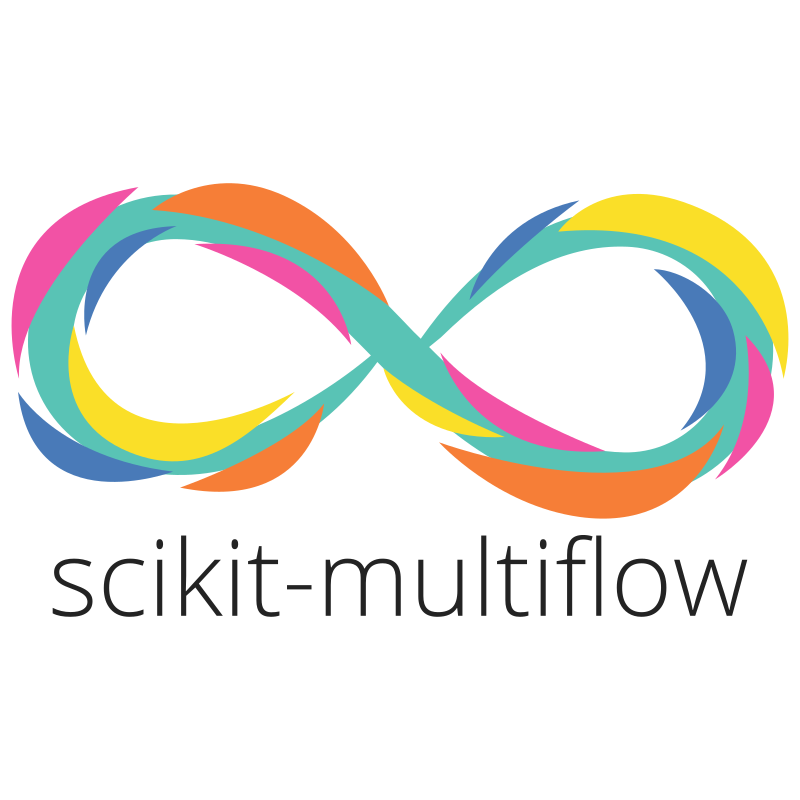
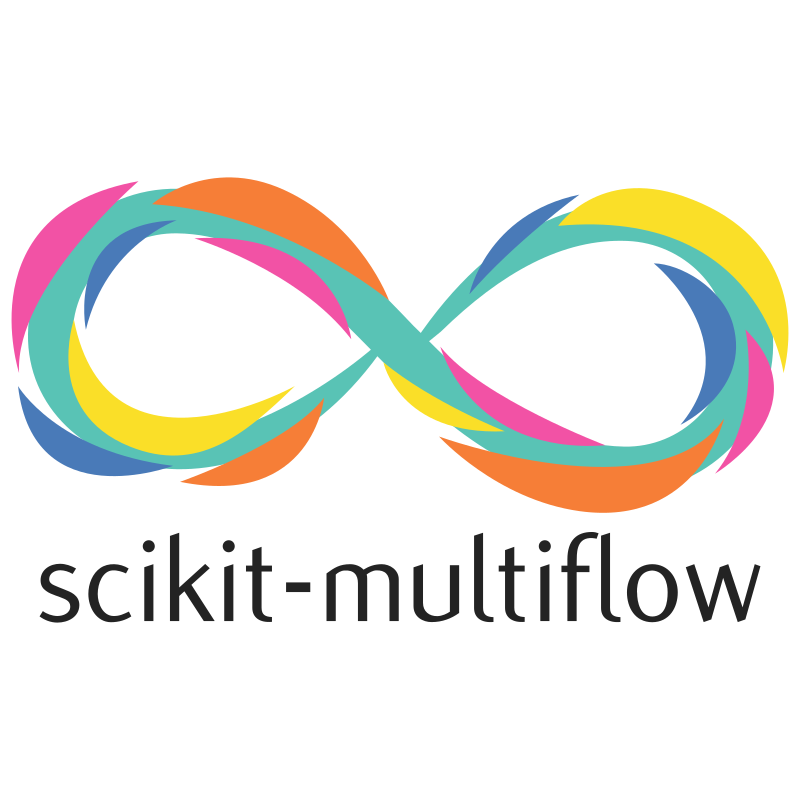
deploy: jacobmontiel/academic-kickstart@e5b0c22bbc5b911b58a0ab436a843393775e38b5

diff --git a/index.html b/index.html
@@ -1,6 +1,6 @@
 <!doctype html><html lang=en-us><head><meta charset=utf-8><meta name=viewport content="width=device-width,initial-scale=1"><meta http-equiv=x-ua-compatible content="IE=edge"><meta name=generator content="Source Themes Academic 4.5.0"><meta name=author content="Jacob Montiel"><meta name=description content="Research Fellow"><link rel=alternate hreflang=en-us href=https://jacobmontiel.github.io/><meta name=theme-color content="#3f51b5"><link rel=stylesheet href=https://cdnjs.cloudflare.com/ajax/libs/academicons/1.8.6/css/academicons.min.css integrity="sha256-uFVgMKfistnJAfoCUQigIl+JfUaP47GrRKjf6CTPVmw=" crossorigin=anonymous><link rel=stylesheet href=https://cdnjs.cloudflare.com/ajax/libs/font-awesome/5.11.2/css/all.min.css integrity="sha256-+N4/V/SbAFiW1MPBCXnfnP9QSN3+Keu+NlB+0ev/YKQ=" crossorigin=anonymous><link rel=stylesheet href=https://cdnjs.cloudflare.com/ajax/libs/fancybox/3.5.7/jquery.fancybox.min.css integrity="sha256-Vzbj7sDDS/woiFS3uNKo8eIuni59rjyNGtXfstRzStA=" crossorigin=anonymous><link rel=stylesheet href=https://cdnjs.cloudflare.com/ajax/libs/highlight.js/9.15.10/styles/github.min.css crossorigin=anonymous title=hl-light><link rel=stylesheet href=https://cdnjs.cloudflare.com/ajax/libs/highlight.js/9.15.10/styles/github.min.css crossorigin=anonymous title=hl-dark disabled><link rel=stylesheet href=https://cdnjs.cloudflare.com/ajax/libs/leaflet/1.5.1/leaflet.css integrity="sha256-SHMGCYmST46SoyGgo4YR/9AlK1vf3ff84Aq9yK4hdqM=" crossorigin=anonymous><link rel=stylesheet href="https://fonts.googleapis.com/css?family=Montserrat:400,700%7CRoboto:400,400italic,700%7CRoboto+Mono%7CRaleway%7CLato%7CTitillium+Web&display=swap"><link rel=stylesheet href=/css/academic.css><link rel=alternate href=/index.xml type=application/rss+xml title="Jacob ML"><link rel=manifest href=/index.webmanifest><link rel=icon type=image/png href=/img/icon-32.png><link rel=apple-touch-icon type=image/png href=/img/icon-192.png><link rel=canonical href=https://jacobmontiel.github.io/><meta property="twitter:card" content="summary_large_image"><meta property="twitter:site" content="@jacobmex"><meta property="twitter:creator" content="@jacobmex"><meta property="og:site_name" content="Jacob ML"><meta property="og:url" content="https://jacobmontiel.github.io/"><meta property="og:title" content="Jacob ML"><meta property="og:description" content="Research Fellow"><meta property="og:image" content="https://jacobmontiel.github.io/img/avatar.jpg"><meta property="twitter:image" content="https://jacobmontiel.github.io/img/avatar.jpg"><meta property="og:locale" content="en-us"><meta property="og:updated_time" content="2020-03-06T23:00:00+00:00"><script type=application/ld+json>{"@context":"https://schema.org","@type":"WebSite","potentialAction":{"@type":"SearchAction","target":"https://jacobmontiel.github.io/?q={search_term_string}","query-input":"required name=search_term_string"},"url":"https://jacobmontiel.github.io/"}</script><title>Jacob ML</title></head><body id=top data-spy=scroll data-offset=70 data-target=#navbar-main><aside class=search-results id=search><div class=container><section class=search-header><div class="row no-gutters justify-content-between mb-3"><div class=col-6><h1>Search</h1></div><div class="col-6 col-search-close"><a class=js-search href=#><i class="fas fa-times-circle text-muted" aria-hidden=true></i></a></div></div><div id=search-box><input name=q id=search-query placeholder=Search... autocapitalize=off autocomplete=off autocorrect=off spellcheck=false type=search></div></section><section class=section-search-results><div id=search-hits></div></section></div></aside><nav class="navbar navbar-light fixed-top navbar-expand-lg py-0 compensate-for-scrollbar" id=navbar-main><div class=container><a class=navbar-brand href=/>Jacob ML</a>
 <button type=button class=navbar-toggler data-toggle=collapse data-target=#navbar aria-controls=navbar aria-expanded=false aria-label="Toggle navigation">
-<span><i class="fas fa-bars"></i></span></button><div class="collapse navbar-collapse" id=navbar><ul class="navbar-nav mr-auto"><li class=nav-item><a class=nav-link href=/#about data-target=#about><span>Home</span></a></li><li class=nav-item><a class=nav-link href=/#projects data-target=#projects><span>Projects</span></a></li><li class=nav-item><a class=nav-link href=/#posts data-target=#posts><span>News</span></a></li><li class=nav-item><a class=nav-link href=/#publications data-target=#publications><span>Publications</span></a></li><li class="nav-item dropdown"><a href=# class="nav-link dropdown-toggle" data-toggle=dropdown aria-haspopup=true><span>Activities</span><span class=caret></span></a><ul class=dropdown-menu><li class="dropdown-item my-0 py-0 mx-0 px-0"><a href=/activities/#activities data-target=activities/#activities><span>Professional Activities</span></a></li><li class="dropdown-item my-0 py-0 mx-0 px-0"><a href=/activities/#teaching data-target=activities/#teaching><span>Teaching</span></a></li></ul></li><li class=nav-item><a class=nav-link href=/about/><span>About</span></a></li><li class=nav-item><a class=nav-link href=/#contact data-target=#contact><span>Contact</span></a></li></ul><ul class="navbar-nav ml-auto"><li class=nav-item><a class="nav-link js-search" href=#><i class="fas fa-search" aria-hidden=true></i></a></li></ul></div></div></nav><span class="js-widget-page d-none"></span><section id=about class="home-section wg-about bg-image parallax" style=background-image:url(https://jacobmontiel.github.io/img/background.png);background-size:cover;background-position:50%><div class=container><div class=row><div class="col-12 col-lg-4"><div id=profile><img class=portrait src=/authors/admin/avatar_hu855bbe0a9c47ac557e5b09db74fa3b06_164171_250x250_fill_q90_lanczos_center.jpg alt=Avatar><div class=portrait-title><h2>Jacob Montiel</h2><h3>Research Fellow</h3><h3><a href=https://www.waikato.ac.nz/ target=_blank rel=noopener><span>University of Waikato</span></a></h3></div><ul class=network-icon aria-hidden=true><li><a href=mailto:firstname.lastname[at]waikato.ac.nz><i class="fas fa-envelope big-icon"></i></a></li><li><a href=https://www.linkedin.com/in/jacobmontiel/ target=_blank rel=noopener><i class="fab fa-linkedin big-icon"></i></a></li><li><a href=https://github.com/jacobmontiel target=_blank rel=noopener><i class="fab fa-github big-icon"></i></a></li><li><a href="https://scholar.google.co.uk/citations?user=WOvISekAAAAJ" target=_blank rel=noopener><i class="ai ai-google-scholar big-icon"></i></a></li><li><a href=https://twitter.com/jacobmex target=_blank rel=noopener><i class="fab fa-twitter big-icon"></i></a></li></ul></div></div><div class="col-12 col-lg-8"><p>I am a Research Fellow in the <a href=https://www.cs.waikato.ac.nz/~ml/>Machine Learning Group</a> at the <a href=https://www.waikato.ac.nz/>University of Waikato</a>. I am the lead developer and maintainer of <a href=https://scikit-multiflow.github.io/>scikit-multiflow</a>, a machine learning framework for multi-label/multi-output stream data.</p><p>I worked at GE Aviation as Tech Lead in the development of embedded software for Diagnostics and Prognostics of Airborne Systems.</p><p>For further information, please check the <a href=/about>about</a> section.</p><div class=row><div class=col-md-5><h3>Interests</h3><ul class=ul-interests><li>Artificial Intelligence</li><li>Machine Learning</li><li>Data Streams</li><li>Open Source Software</li></ul></div><div class=col-md-7><h3>Education</h3><ul class="ul-edu fa-ul"><li><i class="fa-li fas fa-graduation-cap"></i><div class=description><p class=course>PhD in Computer Science, 2019</p><p class=institution>Université Paris-Saclay (FR)</p></div></li><li><i class="fa-li fas fa-graduation-cap"></i><div class=description><p class=course>MEng in Computer Science, 2010</p><p class=institution>Tokyo Institute of Technology (JP)</p></div></li><li><i class="fa-li fas fa-graduation-cap"></i><div class=description><p class=course>BSc in Electrical Engineering, 2005</p><p class=institution>Puebla Institute of Technology (MX)</p></div></li></ul></div></div></div></div></div></section><section id=projects class="home-section wg-portfolio"><div class=container><div class=row><div class="col-xs-12 col-md-4 section-heading"><h1>Projects</h1></div><div class="col-xs-12 col-md-8"><div class="isotope projects-container js-layout-masonry"><div class="project-card project-item isotope-item js-id-machine-learning js-id-data-streams js-id-python"><div class=card><a href=https://scikit-multiflow.github.io/ target=_blank rel=noopener class="card-image hover-overlay"><img src=/project/scikit-multiflow/featured_hu8739dcaeb8c0f1473728ad40e22f5d59_64387_550x0_resize_q90_lanczos_2.png alt class=img-responsive></a><div class=card-text><h4><a href=https://scikit-multiflow.github.io/ target=_blank rel=noopener>scikit-multiflow</a></h4><div class=article-style><p>A machine learning framework for multi-output/multi-label and stream data.</p></div></div></div></div></div></div></div></div></section><section id=posts class="home-section wg-pages"><div class=container><div class=row><div class="col-12 col-lg-4 section-heading"><h1>Recent News</h1></div><div class="col-12 col-lg-8"><div class="media stream-item"><div class=media-body><h3 class="article-title mb-0 mt-0"><a href=/post/2020-03-07-tutorial-ijcai/>Tutorial accepted at IJCAI 2020</a></h3><div class=article-style>Our tutorial &ldquo;Machine learning for data streams with scikit-multiflow&rdquo; has been accepted for presentation in IJCAI-PRICAI …</div><div class="stream-meta article-metadata"><div class=article-metadata><span class=article-date>Mar 6, 2020</span>
+<span><i class="fas fa-bars"></i></span></button><div class="collapse navbar-collapse" id=navbar><ul class="navbar-nav mr-auto"><li class=nav-item><a class=nav-link href=/#about data-target=#about><span>Home</span></a></li><li class=nav-item><a class=nav-link href=/#projects data-target=#projects><span>Projects</span></a></li><li class=nav-item><a class=nav-link href=/#posts data-target=#posts><span>News</span></a></li><li class=nav-item><a class=nav-link href=/#publications data-target=#publications><span>Publications</span></a></li><li class="nav-item dropdown"><a href=# class="nav-link dropdown-toggle" data-toggle=dropdown aria-haspopup=true><span>Activities</span><span class=caret></span></a><ul class=dropdown-menu><li class="dropdown-item my-0 py-0 mx-0 px-0"><a href=/activities/#activities data-target=activities/#activities><span>Professional Activities</span></a></li><li class="dropdown-item my-0 py-0 mx-0 px-0"><a href=/activities/#teaching data-target=activities/#teaching><span>Teaching</span></a></li></ul></li><li class=nav-item><a class=nav-link href=/about/><span>About</span></a></li><li class=nav-item><a class=nav-link href=/#contact data-target=#contact><span>Contact</span></a></li></ul><ul class="navbar-nav ml-auto"><li class=nav-item><a class="nav-link js-search" href=#><i class="fas fa-search" aria-hidden=true></i></a></li></ul></div></div></nav><span class="js-widget-page d-none"></span><section id=about class="home-section wg-about bg-image parallax" style=background-image:url(https://jacobmontiel.github.io/img/background.png);background-size:cover;background-position:50%><div class=container><div class=row><div class="col-12 col-lg-4"><div id=profile><img class=portrait src=/authors/admin/avatar_hu855bbe0a9c47ac557e5b09db74fa3b06_164171_250x250_fill_q90_lanczos_center.jpg alt=Avatar><div class=portrait-title><h2>Jacob Montiel</h2><h3>Research Fellow</h3><h3><a href=https://www.waikato.ac.nz/ target=_blank rel=noopener><span>University of Waikato</span></a></h3></div><ul class=network-icon aria-hidden=true><li><a href=mailto:firstname.lastname[at]waikato.ac.nz><i class="fas fa-envelope big-icon"></i></a></li><li><a href=https://www.linkedin.com/in/jacobmontiel/ target=_blank rel=noopener><i class="fab fa-linkedin big-icon"></i></a></li><li><a href=https://github.com/jacobmontiel target=_blank rel=noopener><i class="fab fa-github big-icon"></i></a></li><li><a href="https://scholar.google.co.uk/citations?user=WOvISekAAAAJ" target=_blank rel=noopener><i class="ai ai-google-scholar big-icon"></i></a></li><li><a href=https://twitter.com/jacobmex target=_blank rel=noopener><i class="fab fa-twitter big-icon"></i></a></li></ul></div></div><div class="col-12 col-lg-8"><p>I am a Research Fellow in the <a href=https://www.cs.waikato.ac.nz/~ml/>Machine Learning Group</a> at the <a href=https://www.waikato.ac.nz/>University of Waikato</a>. I am the lead developer and maintainer of <a href=https://scikit-multiflow.github.io/>scikit-multiflow</a>, a machine learning framework for multi-label/multi-output stream data.</p><p>I worked at GE Aviation as Tech Lead in the development of embedded software for Diagnostics and Prognostics of Airborne Systems.</p><p>For further information, please check the <a href=/about>about</a> section.</p><div class=row><div class=col-md-5><h3>Interests</h3><ul class=ul-interests><li>Artificial Intelligence</li><li>Machine Learning</li><li>Data Streams</li><li>Open Source Software</li></ul></div><div class=col-md-7><h3>Education</h3><ul class="ul-edu fa-ul"><li><i class="fa-li fas fa-graduation-cap"></i><div class=description><p class=course>PhD in Computer Science, 2019</p><p class=institution>Université Paris-Saclay (FR)</p></div></li><li><i class="fa-li fas fa-graduation-cap"></i><div class=description><p class=course>MEng in Computer Science, 2010</p><p class=institution>Tokyo Institute of Technology (JP)</p></div></li><li><i class="fa-li fas fa-graduation-cap"></i><div class=description><p class=course>BSc in Electrical Engineering, 2005</p><p class=institution>Puebla Institute of Technology (MX)</p></div></li></ul></div></div></div></div></div></section><section id=projects class="home-section wg-portfolio"><div class=container><div class=row><div class="col-xs-12 col-md-4 section-heading"><h1>Projects</h1></div><div class="col-xs-12 col-md-8"><div class="isotope projects-container js-layout-masonry"><div class="project-card project-item isotope-item js-id-machine-learning js-id-data-streams js-id-python"><div class=card><a href=https://scikit-multiflow.github.io/ target=_blank rel=noopener class="card-image hover-overlay"><img src=/project/scikit-multiflow/featured_hub137b082d77ffa20b74f42e8101551d7_64366_550x0_resize_q90_lanczos_2.png alt class=img-responsive></a><div class=card-text><h4><a href=https://scikit-multiflow.github.io/ target=_blank rel=noopener>scikit-multiflow</a></h4><div class=article-style><p>A machine learning framework for multi-output/multi-label and stream data.</p></div></div></div></div></div></div></div></div></section><section id=posts class="home-section wg-pages"><div class=container><div class=row><div class="col-12 col-lg-4 section-heading"><h1>Recent News</h1></div><div class="col-12 col-lg-8"><div class="media stream-item"><div class=media-body><h3 class="article-title mb-0 mt-0"><a href=/post/2020-03-07-tutorial-ijcai/>Tutorial accepted at IJCAI 2020</a></h3><div class=article-style>Our tutorial &ldquo;Machine learning for data streams with scikit-multiflow&rdquo; has been accepted for presentation in IJCAI-PRICAI …</div><div class="stream-meta article-metadata"><div class=article-metadata><span class=article-date>Mar 6, 2020</span>
 <span class=middot-divider></span><span class=article-reading-time>1 min read</span></div></div></div><div class=ml-3></div></div><div class="media stream-item"><div class=media-body><h3 class="article-title mb-0 mt-0"><a href=/post/2019-10-25-interview/>Interview on adaptive learning</a></h3><div class=article-style>My interview on the benefits of adaptive learning methods has been published in a white-book by Quantmetry.
 The white-book, No. 5 …</div><div class="stream-meta article-metadata"><div class=article-metadata><span class=article-date>Oct 25, 2019</span>
 <span class=middot-divider></span><span class=article-reading-time>3 min read</span>

diff --git a/project/scikit-multiflow/index.html b/project/scikit-multiflow/index.html
@@ -2,7 +2,7 @@
 <button type=button class=navbar-toggler data-toggle=collapse data-target=#navbar aria-controls=navbar aria-expanded=false aria-label="Toggle navigation">
 <span><i class="fas fa-bars"></i></span></button><div class="collapse navbar-collapse" id=navbar><ul class="navbar-nav mr-auto"><li class=nav-item><a class=nav-link href=/#about><span>Home</span></a></li><li class=nav-item><a class=nav-link href=/#projects><span>Projects</span></a></li><li class=nav-item><a class=nav-link href=/#posts><span>News</span></a></li><li class=nav-item><a class=nav-link href=/#publications><span>Publications</span></a></li><li class="nav-item dropdown"><a href=# class="nav-link dropdown-toggle" data-toggle=dropdown aria-haspopup=true><span>Activities</span><span class=caret></span></a><ul class=dropdown-menu><li class="dropdown-item my-0 py-0 mx-0 px-0"><a href=/activities/#activities><span>Professional Activities</span></a></li><li class="dropdown-item my-0 py-0 mx-0 px-0"><a href=/activities/#teaching><span>Teaching</span></a></li></ul></li><li class=nav-item><a class=nav-link href=/about/><span>About</span></a></li><li class=nav-item><a class=nav-link href=/#contact><span>Contact</span></a></li></ul><ul class="navbar-nav ml-auto"><li class=nav-item><a class="nav-link js-search" href=#><i class="fas fa-search" aria-hidden=true></i></a></li></ul></div></div></nav><article class="article article-project"><div class="article-container pt-3"><h1>scikit-multiflow</h1><div class=article-metadata><span class=article-date>Jan 1, 2019</span>
 <span class=middot-divider></span><span class=article-categories><i class="fas fa-folder mr-1"></i><a href=/categories/foss/>foss</a>, <a href=/categories/machine-learning/>machine learning</a>, <a href=/categories/data-streams/>data streams</a>, <a href=/categories/research/>research</a></span></div><div class="btn-links mb-3"><a class="btn btn-outline-primary my-1" href=https://scikit-multiflow.github.io/ target=_blank rel=noopener>Go to Project Site</a>
-<a class="btn btn-outline-primary my-1 mr-1" href=https://github.com/scikit-multiflow/scikit-multiflow target=_blank rel=noopener><i class="fab fa-github mr-1"></i>GitHub page</a></div></div><div class="article-header article-container featured-image-wrapper mt-4 mb-4" style=max-width:720px;max-height:720px><div style=position:relative><img src=/project/scikit-multiflow/featured_hu8739dcaeb8c0f1473728ad40e22f5d59_64387_720x0_resize_lanczos_2.png alt class=featured-image></div></div><div class=article-container><div class=article-style></div><div class=article-tags><a class="badge badge-light" href=/tags/machine-learning/>machine learning</a>
+<a class="btn btn-outline-primary my-1 mr-1" href=https://github.com/scikit-multiflow/scikit-multiflow target=_blank rel=noopener><i class="fab fa-github mr-1"></i>GitHub page</a></div></div><div class="article-header article-container featured-image-wrapper mt-4 mb-4" style=max-width:720px;max-height:720px><div style=position:relative><img src=/project/scikit-multiflow/featured_hub137b082d77ffa20b74f42e8101551d7_64366_720x0_resize_lanczos_2.png alt class=featured-image></div></div><div class=article-container><div class=article-style></div><div class=article-tags><a class="badge badge-light" href=/tags/machine-learning/>machine learning</a>
 <a class="badge badge-light" href=/tags/data-streams/>data streams</a>
 <a class="badge badge-light" href=/tags/python/>python</a></div><div class="media author-card content-widget-hr"><img class="portrait mr-3" src=/authors/admin/avatar_hu855bbe0a9c47ac557e5b09db74fa3b06_164171_250x250_fill_q90_lanczos_center.jpg alt=Avatar><div class=media-body><h5 class=card-title><a href=https://jacobmontiel.github.io/>Jacob Montiel</a></h5><h6 class=card-subtitle>Research Fellow</h6><p class=card-text>Research Fellow at the University of Waikato (NZ) and lead programmer of scikit-multiflow.</p><ul class=network-icon aria-hidden=true><li><a href=mailto:firstname.lastname[at]waikato.ac.nz><i class="fas fa-envelope"></i></a></li><li><a href=https://www.linkedin.com/in/jacobmontiel/ target=_blank rel=noopener><i class="fab fa-linkedin"></i></a></li><li><a href=https://github.com/jacobmontiel target=_blank rel=noopener><i class="fab fa-github"></i></a></li><li><a href="https://scholar.google.co.uk/citations?user=WOvISekAAAAJ" target=_blank rel=noopener><i class="ai ai-google-scholar"></i></a></li><li><a href=https://twitter.com/jacobmex target=_blank rel=noopener><i class="fab fa-twitter"></i></a></li></ul></div></div><div class="article-widget content-widget-hr"><h3>Related</h3><ul><li><a href=/post/2018-12-10-ieee-bigdata/>IEEE BigData 2018</a></li><li><a href=/post/2018-10-15-skmultiflow/>scikit-multiflow has been accepted at JMLR MLOSS!</a></li><li><a href=/post/2018-07-13-skmultiflow/>scikit-multiflow preprint is available!</a></li><li><a href=/post/2018-06-22-uoa/>Talk at the University of Auckland</a></li><li><a href=/post/2018-06-11-waikato/>Visit to the University of Waikato</a></li></ul></div><div class="project-related-pages content-widget-hr"><h2>Posts</h2><div class="media stream-item"><div class=media-body><h3 class="article-title mb-0 mt-0"><a href=/post/2020-03-07-tutorial-ijcai/>Tutorial accepted at IJCAI 2020</a></h3><div class=article-style>Our tutorial &ldquo;Machine learning for data streams with scikit-multiflow&rdquo; has been accepted for presentation in IJCAI-PRICAI …</div><div class="stream-meta article-metadata"><div class=article-metadata><span class=article-date>Mar 6, 2020</span>
 <span class=middot-divider></span><span class=article-reading-time>1 min read</span></div></div></div><div class=ml-3></div></div><h2>Publications</h2><div class="media stream-item"><div class=media-body><h3 class="article-title mb-0 mt-0"><a href=/publication/2018-lfs/>Learning Fast and Slow: A Unified Batch/Stream Framework.</a></h3><div class=article-style>Data ubiquity highlights the need of efficient and adaptable data-driven solutions. In this paper, we present FAST AND SLOW LEARNING …</div><div class="stream-meta article-metadata"><div><span>Montiel Jacob</span>, <span>Bifet Albert</span>, <span>Losing Viktor</span>, <span>Read Jesse</span>, <span>Abdessalem Talel</span></div></div><div class=btn-links><a class="btn btn-outline-primary my-1 mr-1 btn-sm" href=https://ieeexplore.ieee.org/document/8622222 target=_blank rel=noopener>PDF</a>
